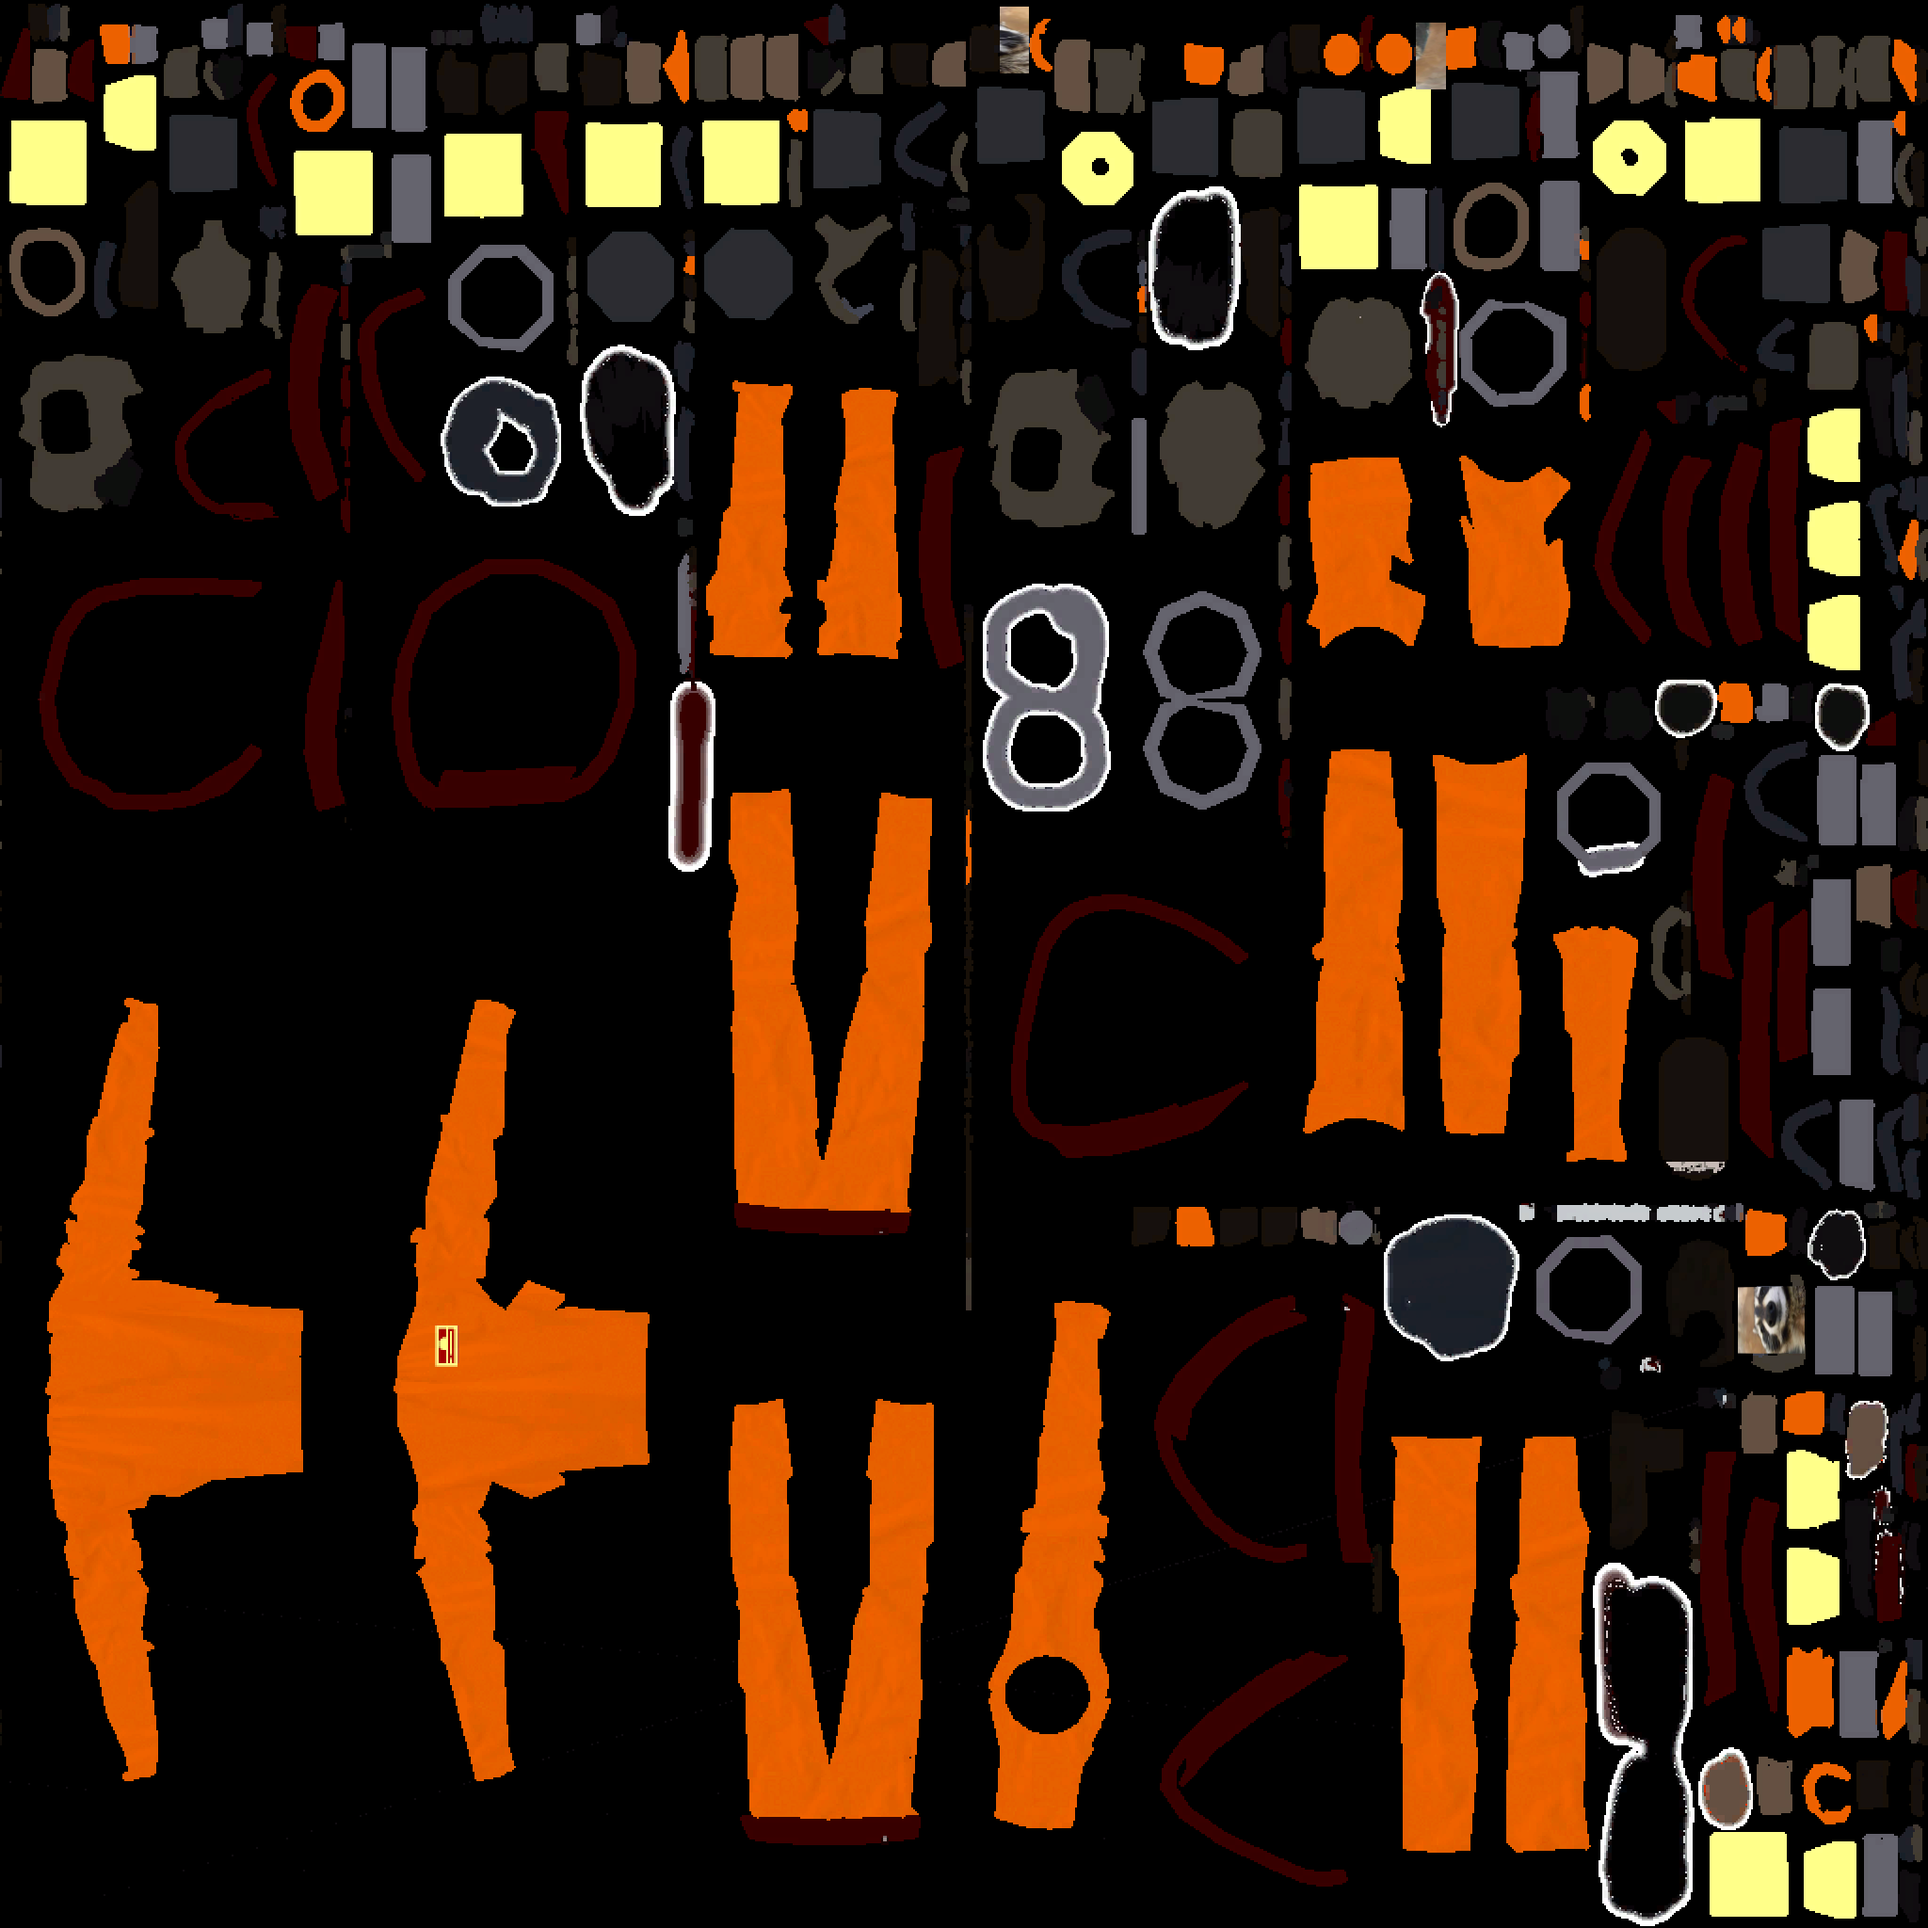
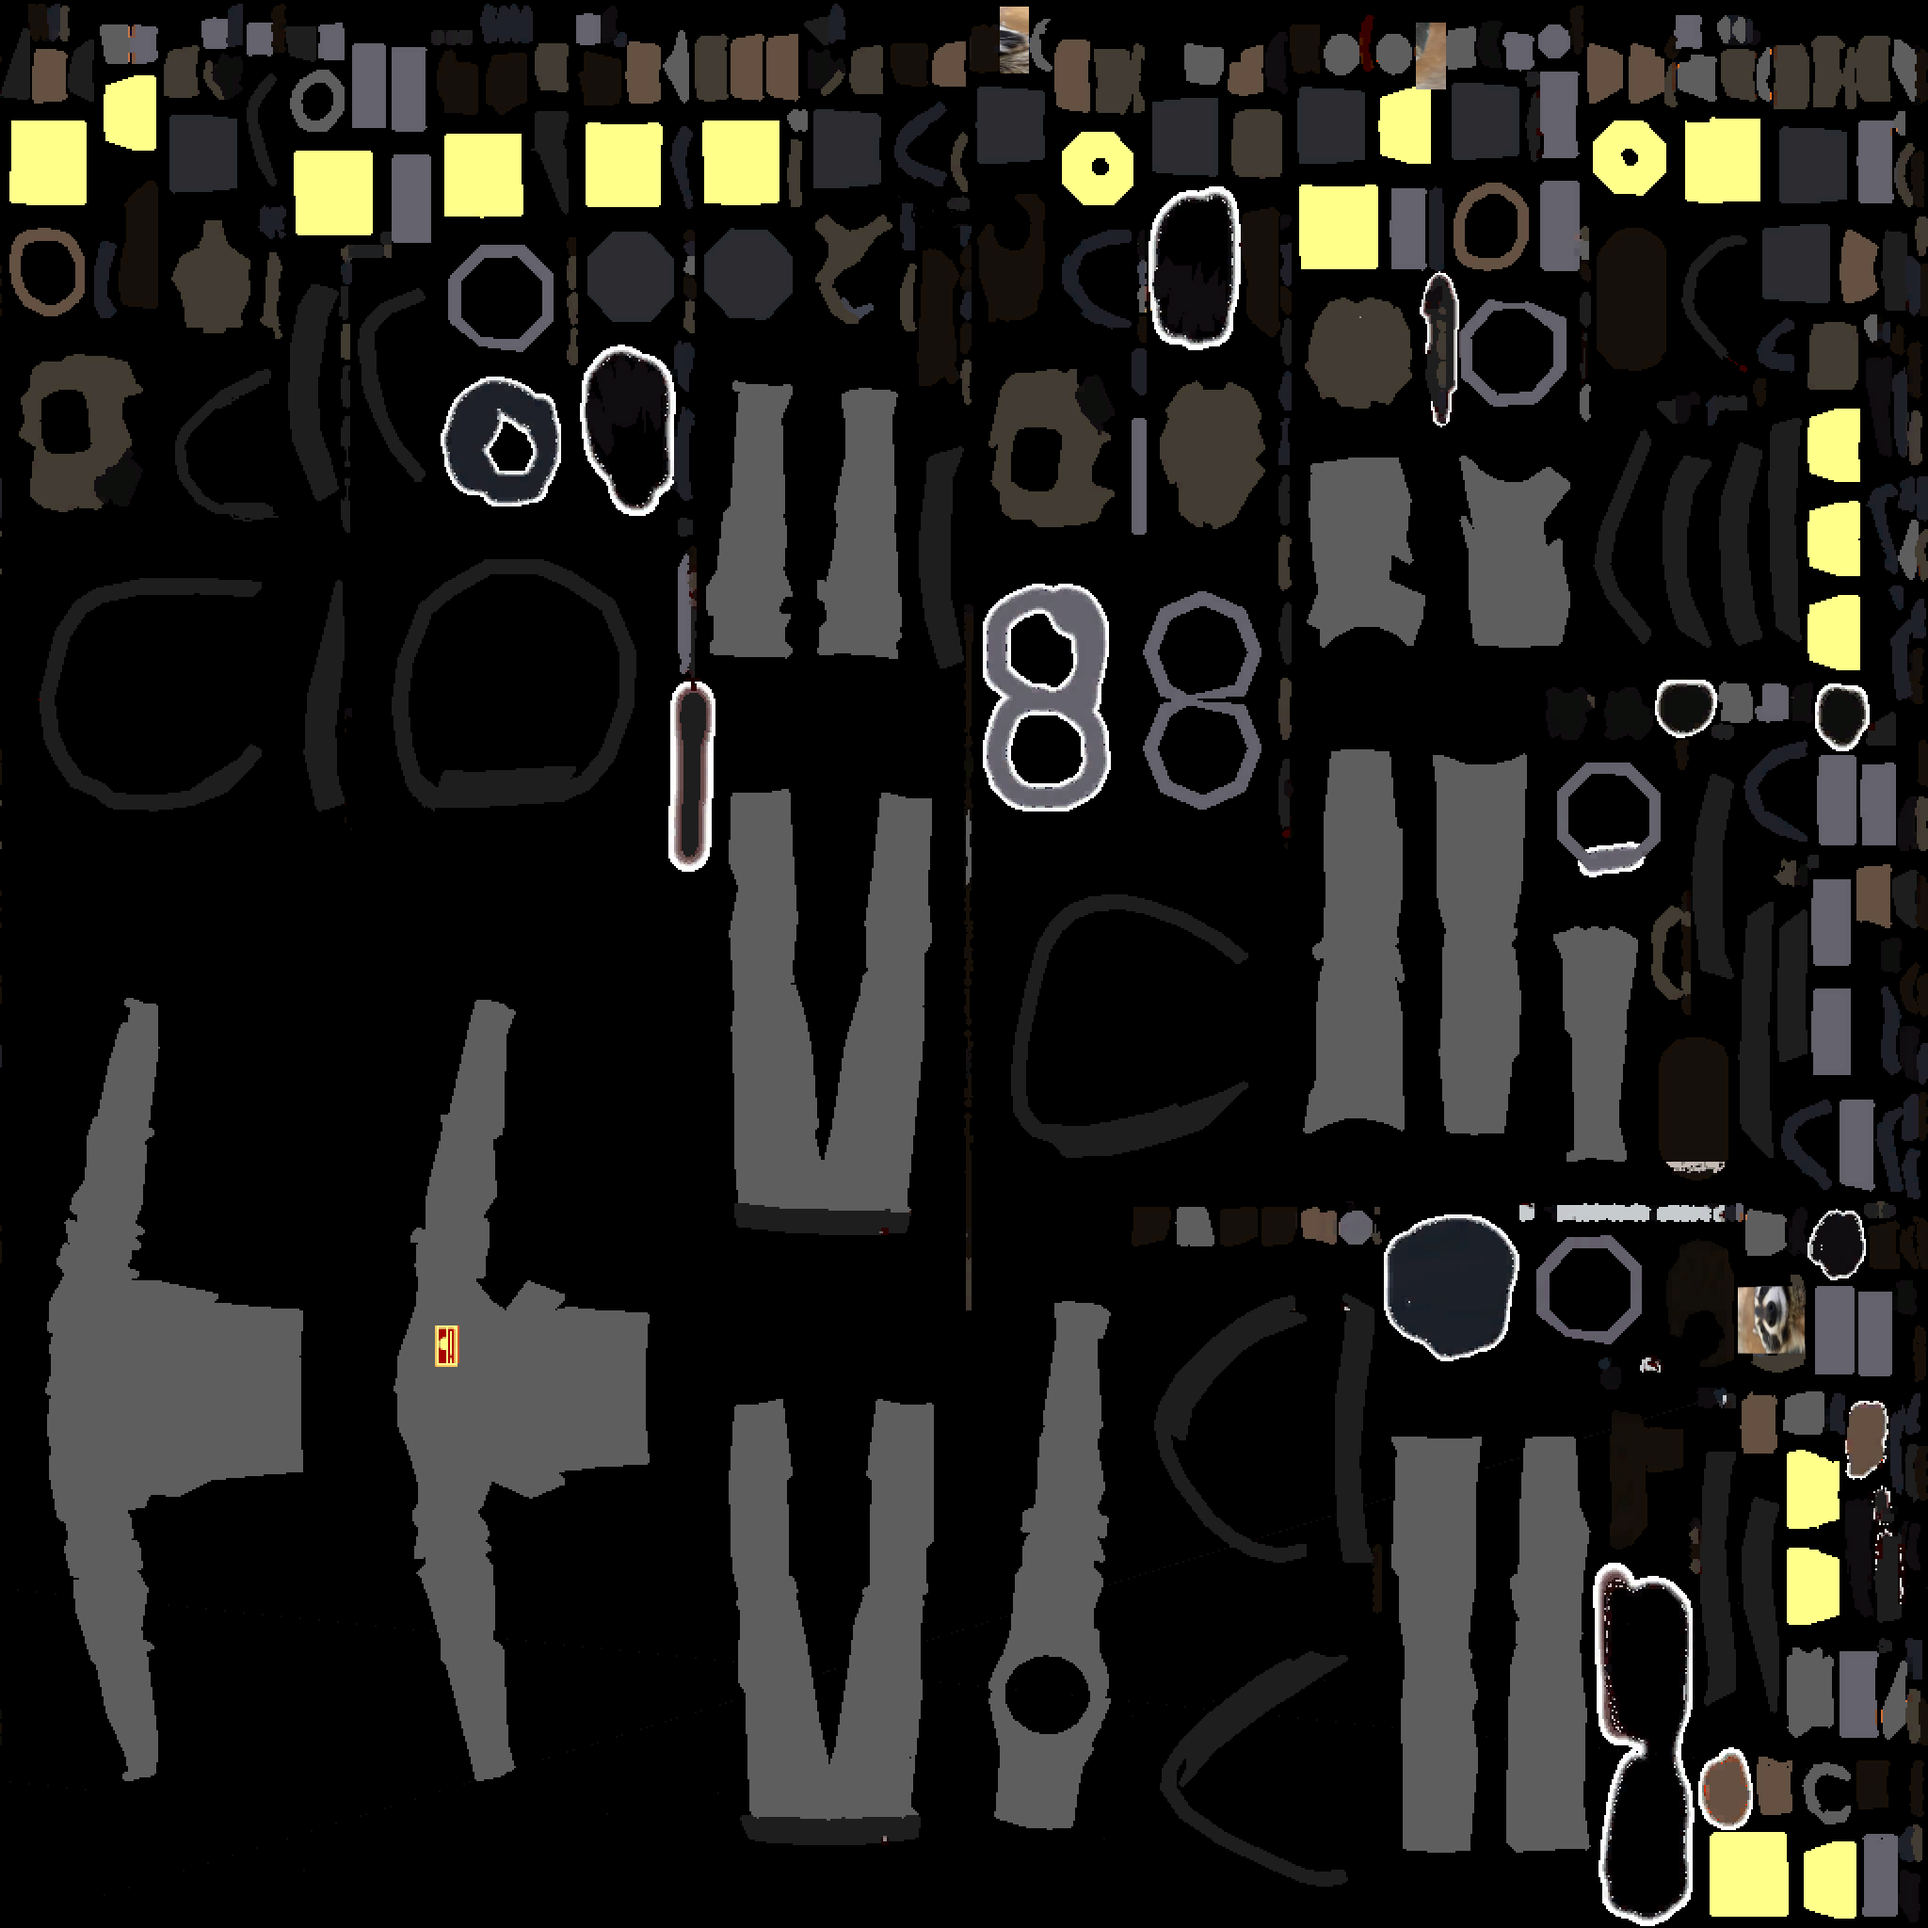
Updated Raccoon Suit. So now it has colors

diff --git a/README.md b/README.md
@@ -1,2 +1,2 @@
-# Fewnik'z Suits
+# Fewnikz Suits
 ## A mod i made using the more suits library. Right now the mod only has one suit. But i am planing to add more. I mostly made this mod to learn how to upload and package a mod to the thunderstore

diff --git a/CHANGELOG.md b/CHANGELOG.md
@@ -1,4 +1,7 @@
 ## v0.0.1 Alpha Release 😎
 - Alpha Release
 
+## v0.0.2 Alpha Release
+- Raccoon suit got colors
+
 </details>
